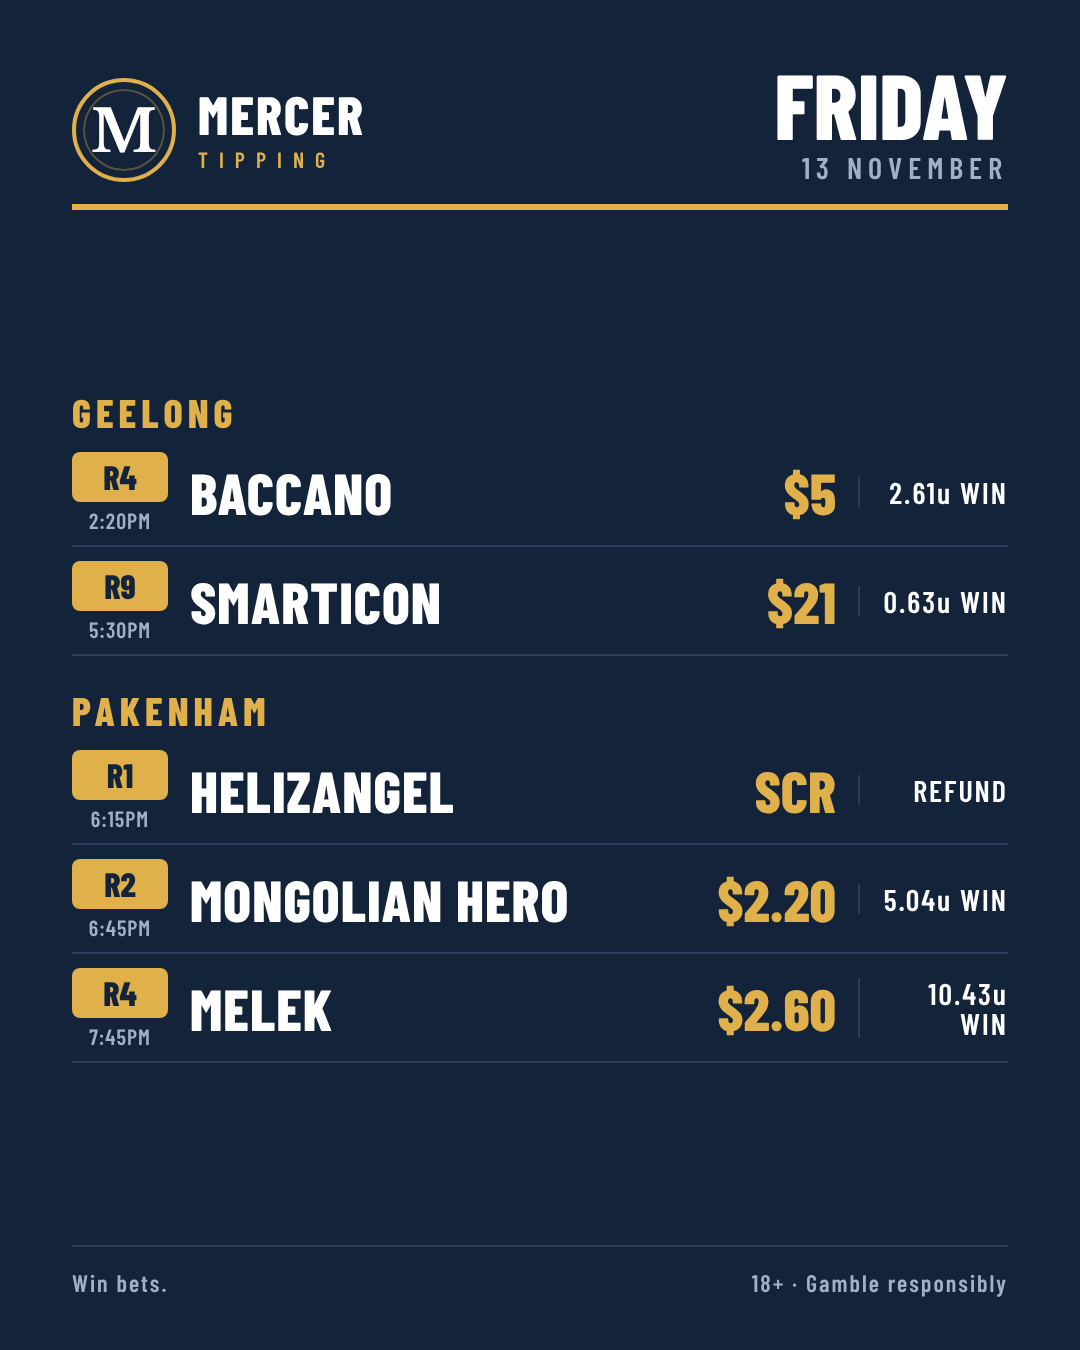
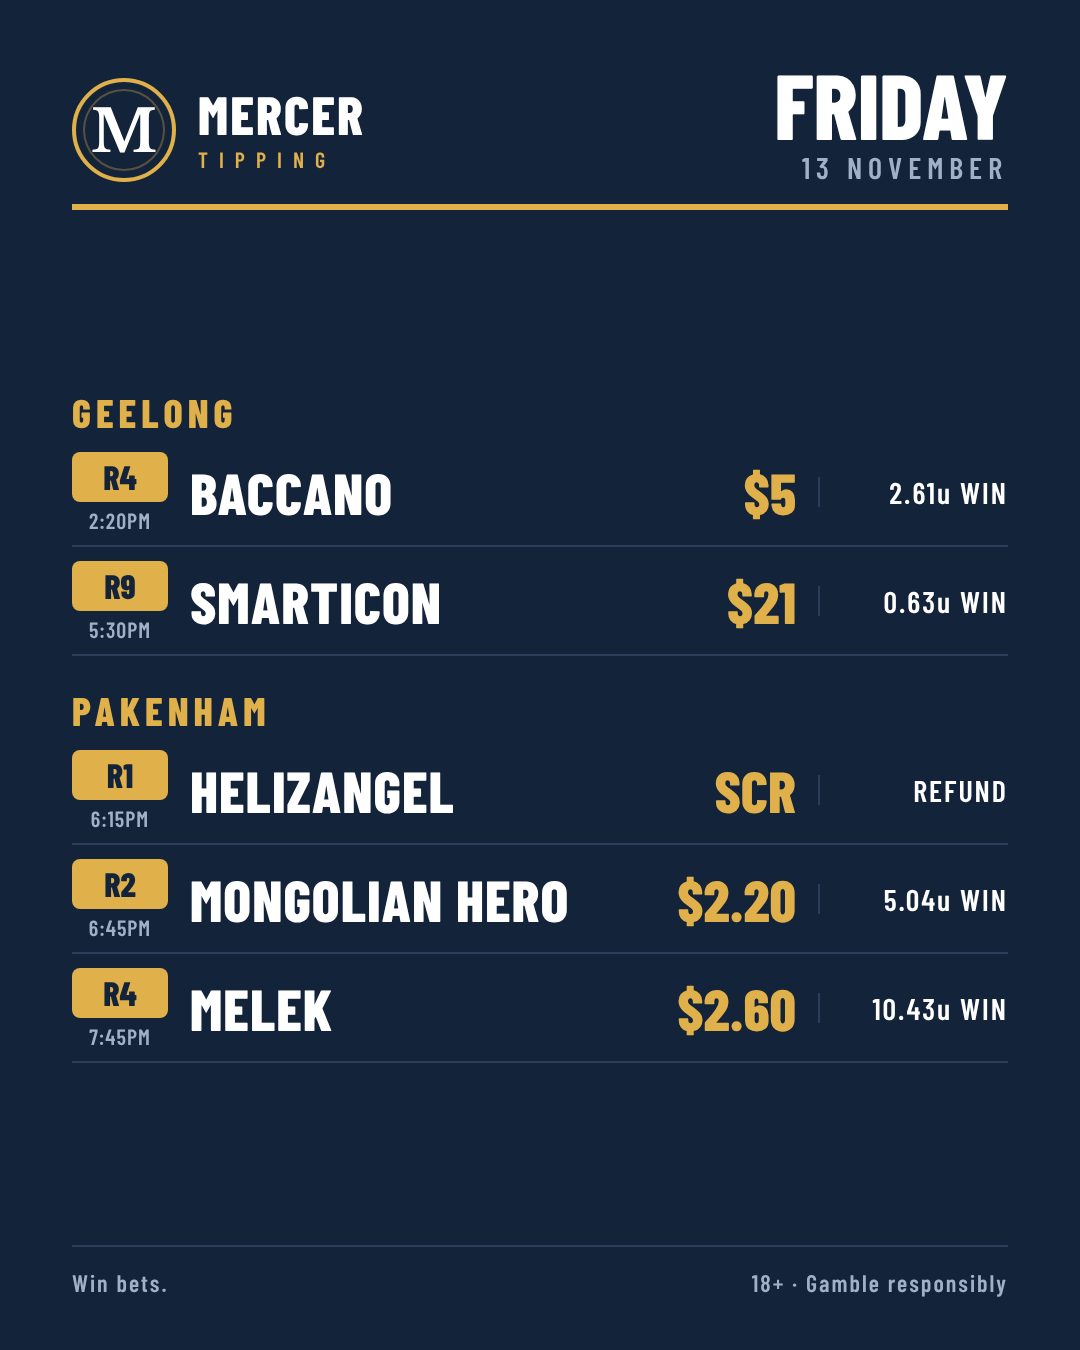
Card: widen the units column when a stake runs to double figures (10.43u wrapped)
Claude-Session: https://claude.ai/code/session_01EWqEfn1skQfDPb65tQpKTS

diff --git a/branding/mercer-tipping/tipcard.py b/branding/mercer-tipping/tipcard.py
@@ -43,6 +43,9 @@ def card(d):
     # line unless "foot": true (22 Oct 2026, founder: "get rid of the bottom notes when I ask for no Mercer or just a
     # card"); the Twitter footer is "Win bets." (22 Oct 2026, founder); a bet's optional "rated" prints our price
     # under the taken price (22 Oct 2026, founder: "put rated prices next to them"); "scr": true shows a scratched bet as SCR / REFUND
+    # a double-figure stake ("10.43u WIN") wraps in the 150px units column (13 Nov 2026): widen it when one is on the card
+    if any(len(x.get("units", "")) > 5 for m in d["meetings"] for x in m["bets"]):
+        dense += ".row{grid-template-columns:96px 1fr auto 190px}"
     show_p, brand = d.get("prices", True), d.get("brand", True)
     if not show_p:
         dense += ".row{grid-template-columns:96px 1fr 150px}.u{border-left:0;padding-left:0}"
